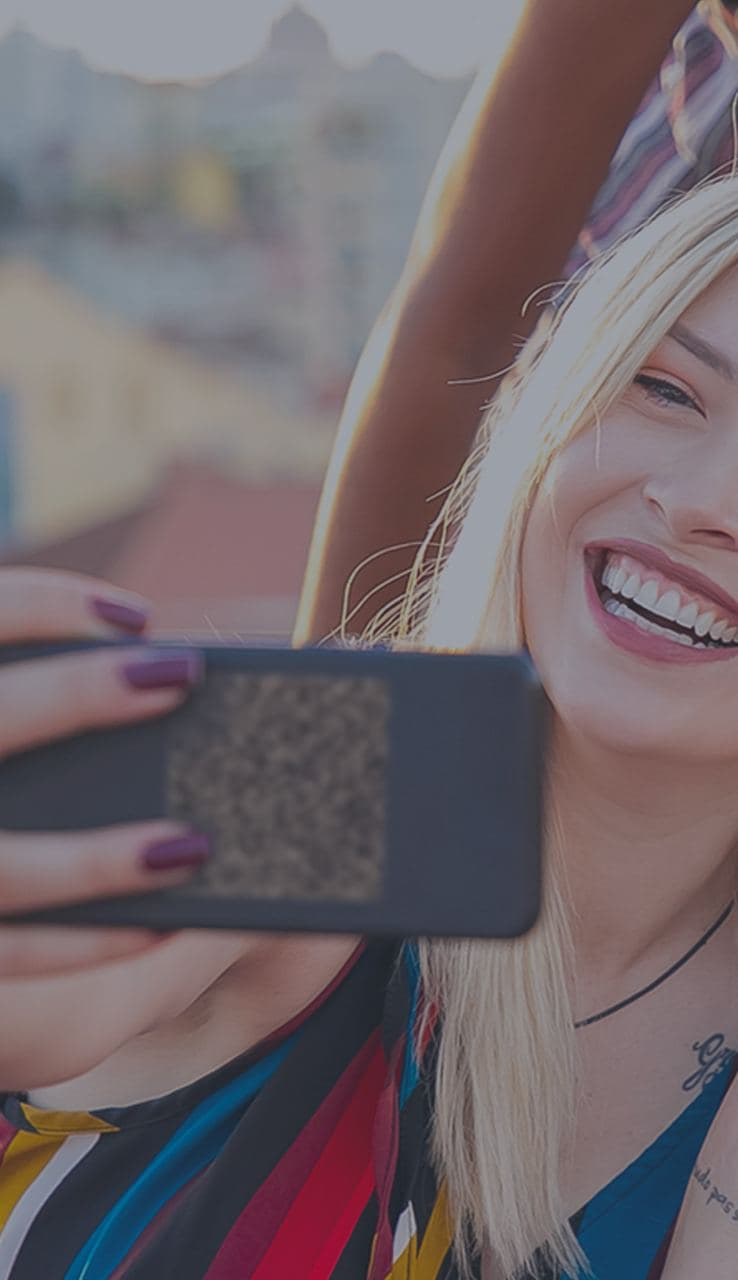
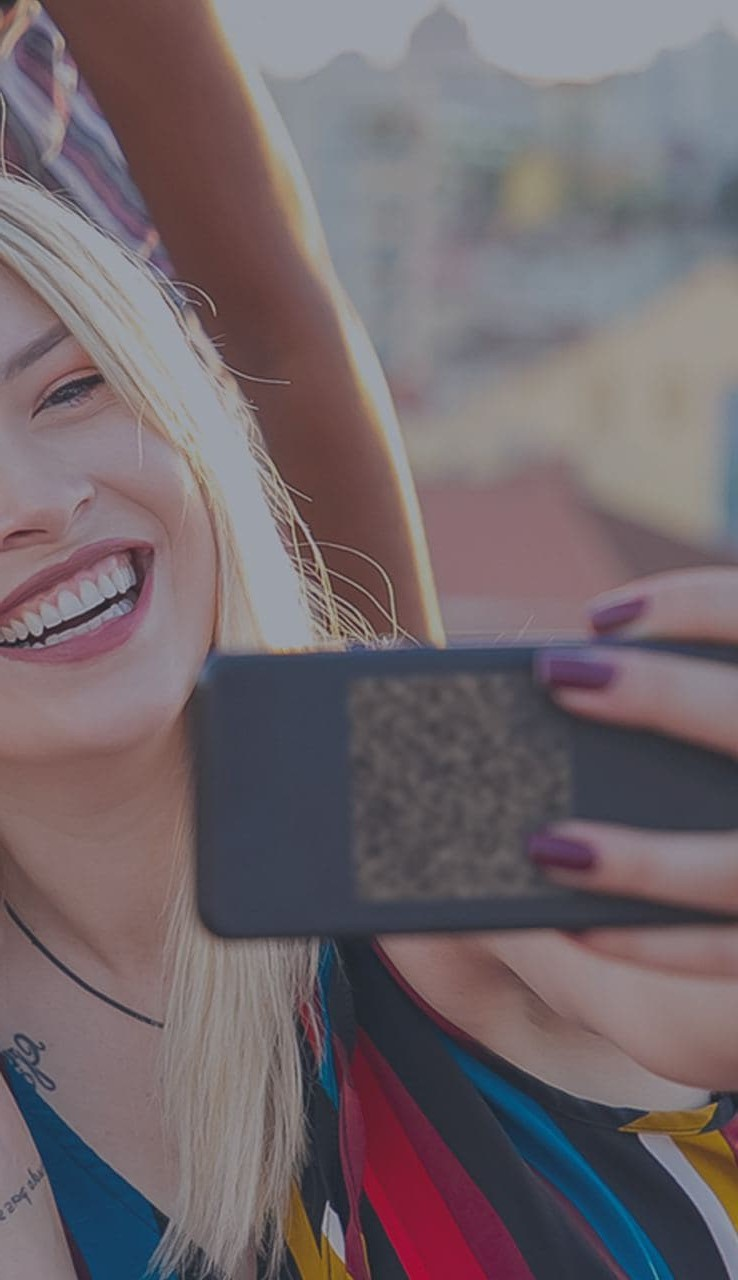
[WelcomeForm] Add btn remove order

diff --git a/src/App.scss b/src/App.scss
@@ -16,7 +16,7 @@ html, body, .App {
 
 #LandingPage {
   color: white;
-  background: url('./assets/img/bg-phone.png');
+  background: url('./assets/img/bg-phone.jpg');
   background-position: center;
   background-size: cover;
   background-repeat: no-repeat;
@@ -24,7 +24,7 @@ html, body, .App {
   .master-row {
     min-height: 100vh;
     padding-top: 6rem;
-    .col-md-6 {
+    .col-lg-6 {
     font-family: 'Montserrat', sans-serif;
     display: flex;
     flex-direction: column;
@@ -67,6 +67,10 @@ html, body, .App {
 @media only screen and (min-width: 1200px){
   #LandingPage {
     background: url('./assets/img/bg.png');
+    background-position: center;
+    background-size: cover;
+    background-repeat: no-repeat;
+
 
   }
   #master-row {
@@ -82,8 +86,22 @@ html, body, .App {
 }
 
 
+.text-animation1{-webkit-animation:text-shadow-drop-center .6s both;animation:text-shadow-drop-center .6s both}
+/* ----------------------------------------------
+ * Generated by Animista on 2021-11-12 14:12:14
+ * Licensed under FreeBSD License.
+ * See http://animista.net/license for more info. 
+ * w: http://animista.net, t: @cssanimista
+ * ---------------------------------------------- */
 
+@-webkit-keyframes text-shadow-drop-center{0%{text-shadow:0 0 0 transparent}100%{text-shadow:0 0 18px rgba(0,0,0,.35)}}@keyframes text-shadow-drop-center{0%{text-shadow:0 0 0 transparent}100%{text-shadow:0 0 18px rgba(0,0,0,.35)}}
+.slide1{-webkit-animation:slide-in-left .5s cubic-bezier(.25,.46,.45,.94) both;animation:slide-in-left .5s cubic-bezier(.25,.46,.45,.94) both}
+/* ----------------------------------------------
+ * Generated by Animista on 2021-11-12 14:13:51
+ * Licensed under FreeBSD License.
+ * See http://animista.net/license for more info. 
+ * w: http://animista.net, t: @cssanimista
+ * ---------------------------------------------- */
 
-
-
+@-webkit-keyframes slide-in-left{0%{-webkit-transform:translateX(-1000px);transform:translateX(-1000px);opacity:0}100%{-webkit-transform:translateX(0);transform:translateX(0);opacity:1}}@keyframes slide-in-left{0%{-webkit-transform:translateX(-1000px);transform:translateX(-1000px);opacity:0}100%{-webkit-transform:translateX(0);transform:translateX(0);opacity:1}}
 

diff --git a/src/Components/WelcomeForm.js b/src/Components/WelcomeForm.js
@@ -1,5 +1,7 @@
 import React, {useState} from 'react';
 
+
+
 import {
     Form,
     Row,
@@ -29,9 +31,15 @@ export default function FormExample() {
       method="POST"
       encType="multipart/form-data"
     >
+      <h2>Effettua subito il tuo ordine via:</h2>
       <Row className="mb-3">
+        <Col xs={12} lg={6}><Button as="a" href="https://api.whatsapp.com/send/?phone=%2B393755756800" variant="outline-success">WhatsApp</Button></Col>
+        <Col xs={12} lg={6}><Button as="a" href="mailto:info@codecover.it" variant="outline-primary">E-mail</Button></Col>
+      </Row>
+      <Row className="mb-3">
+        <h6>Altrimenti compila il form per esser ricontattato via e-mail</h6>
         <Form.Group as={Col} md="6" controlId="validationCustom01">
-          <Form.Label>First name</Form.Label>
+          <Form.Label>Nome</Form.Label>
           <Form.Control
             required
             type="text"
@@ -41,7 +49,7 @@ export default function FormExample() {
           />
         </Form.Group>
         <Form.Group as={Col} md="6" controlId="validationCustom02">
-          <Form.Label>Last name</Form.Label>
+          <Form.Label>Cognome</Form.Label>
           <Form.Control
             required
             type="text"
@@ -78,7 +86,7 @@ export default function FormExample() {
           />
         </Form.Group>
       </Row>
-      <Row className="mb-3">
+{/*      <Row className="mb-3">
        <Form.Group as={Col} md="6" controlId="validationCustom03">
           <Form.Label>Scegli modello</Form.Label>
          <Form.Select aria-label="Default select example" name="modello">
@@ -122,16 +130,16 @@ export default function FormExample() {
             Inserire un codice postale
           </Form.Control.Feedback>
         </Form.Group>
-      </Row>
+      </Row>*/}
       <Form.Group className="mb-3">
         <Form.Check
           required
           label="Accetto i termini e le condizioni"
           feedback="Devi accettare i termini e le condizioni"
-          feedbackType="invalid"
+          feedbacktype="invalid"
         />
       </Form.Group>
-      <Button type="submit" block>Invia</Button>
+      <Button type="submit">Invia</Button>
     </Form>
   );
 }

diff --git a/src/Views/LandingPage.js b/src/Views/LandingPage.js
@@ -19,22 +19,22 @@ function LandingPage() {
 
 	return(<Container id="LandingPage" fluid>
 
-				<span id="logo">CODECOVER</span>
+				<span id="logo" className="text-animation1">CODECOVER</span>
 				<Row className="master-row">
-					<Col  xs={12} md={6} className="px-5">							
+					<Col  xs={12} lg={6} className="px-5 slide1">							
 						<div>
-							<h1>Green Pass sempre visibile</h1>
+							<h1 className="text-animation1">Green Pass sempre visibile</h1>
 						<p>Ordina subito la cover del tuo smartphone con sopra inciso il tuo Greenpass, sempre visibile anche con il telefono scarico.</p>
 							<p>Comodo, Semplice, Veloce!</p>
 						</div>
 					</Col>
-					<Col xs={12} md={6} className="bg-fucile">
+					<Col xs={12} lg={6}>
 						<div className="bg-light text-dark p-4 m-4 rounded">
 							<WelcomeForm />
 						</div>
 						
 					</Col>
-					<Col md="12" id="footer" className="bg-fucile text-center h5">
+					<Col md="12" id="footer" className="text-center h5">
 						<p>©  Codecover by Brambiz Srl - patented in Italy 202021000005147</p>
 					</Col>
 				</Row>
